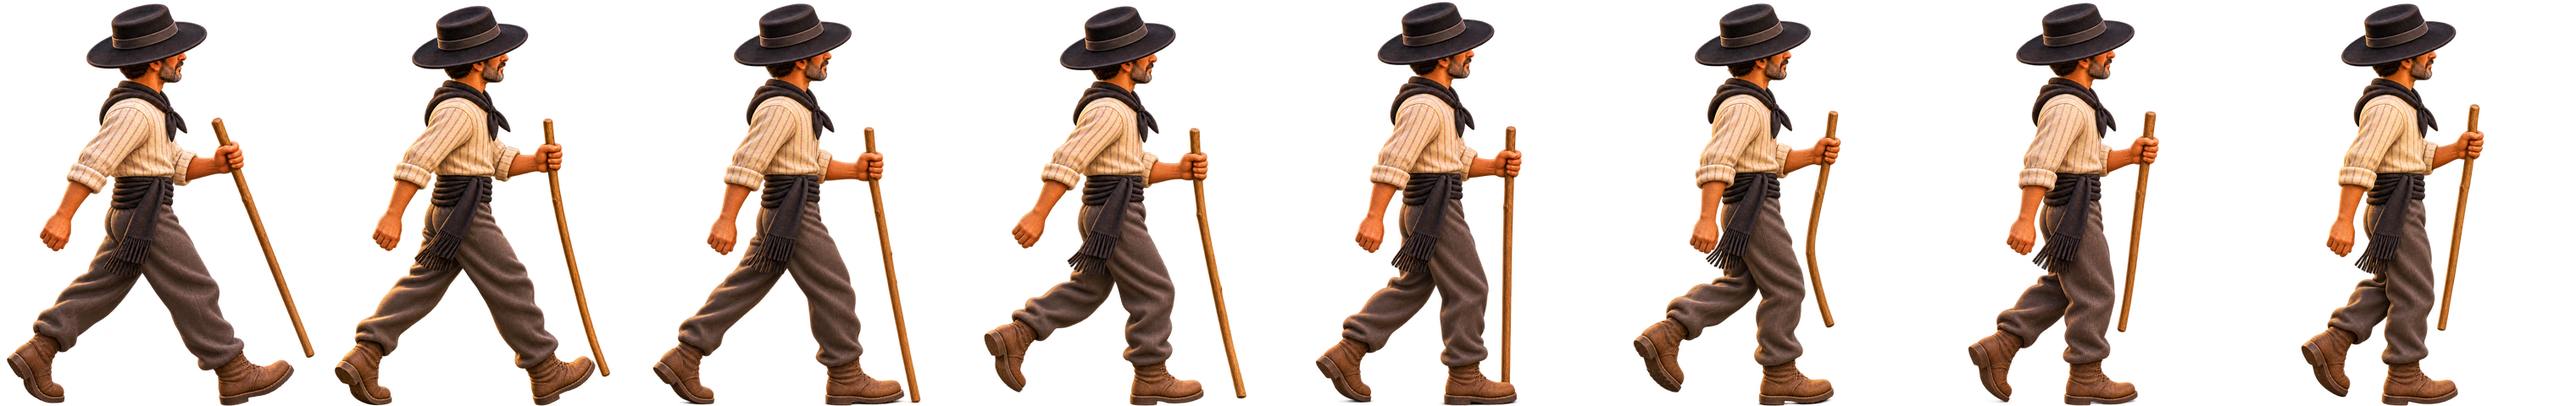
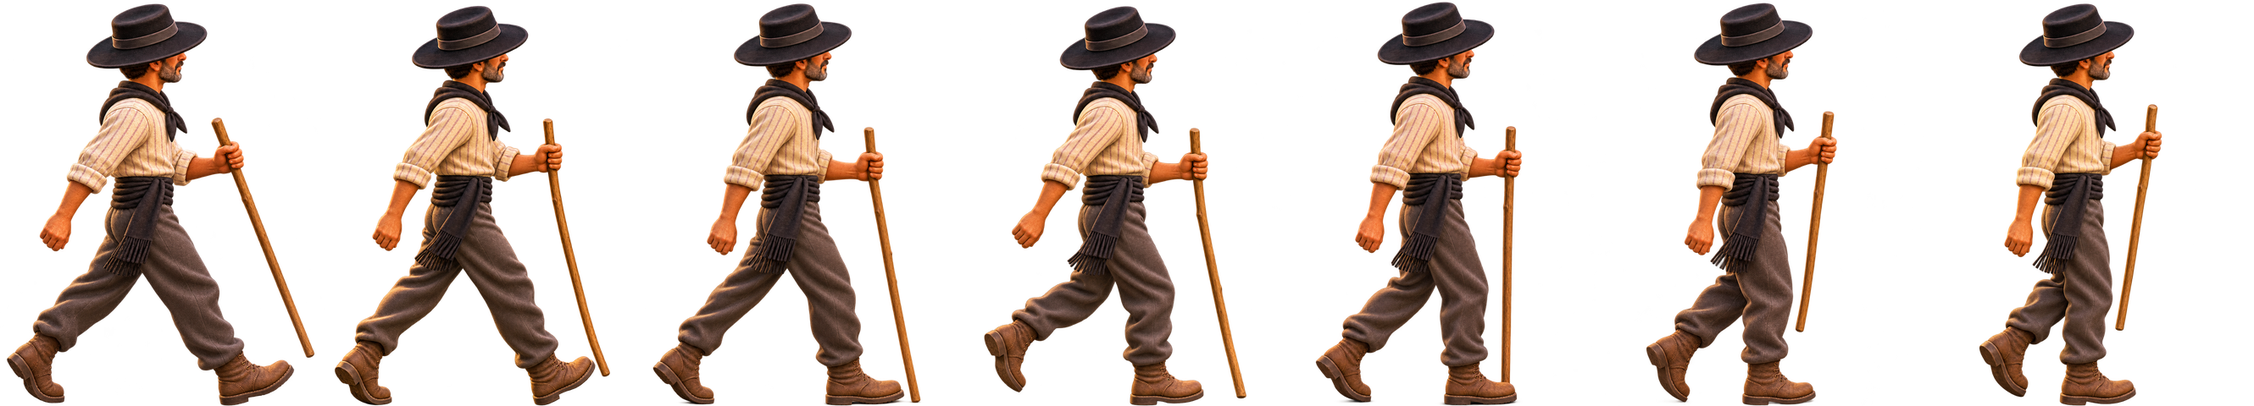
Las calles de Uga, con su iglesia, de fondo en los dos primeros niveles del Mundo 3, y el camellero sin el palo que cambiaba de forma
Claude-Session: https://claude.ai/code/session_01H2Jf8v1MHtV6zTpVoU4WWj

diff --git a/docs/app/sw.js b/docs/app/sw.js
@@ -1,8 +1,8 @@
 // Service worker: deja la versión web disponible sin conexión.
 // En la app Android no hace falta (los archivos ya van dentro del APK) y podría servir
 // una versión antigua tras actualizar, así que allí se da de baja solo.
-const CACHE = 'martin-v3.0.12';
-const ASSETS = ['./', 'index.html', 'martin.js', 'niveles.js', 'secretos.js', 'mundo3.js', 'juego.js', 'dibujo.js', 'lugares.js', 'mapa-lz.js', 'naturaleza.js', 'paisaje-cueva.jpg', 'camello.png', 'guelfo.png', 'mercado-uga.jpg', 'escena-calle-palmera.jpg', 'escena-calle-farolas.jpg', 'guelfo-paso.png', 'camellero-paso.png', 'camellero.png', 'echadero.jpg', 'sendero-malpais.jpg', 'fila-amanecer.jpg', 'portada.jpg', 'paisaje.jpg', 'flora.png', 'suelo-tierra.jpg', 'suelo-lava.jpg', 'paisaje-uga.jpg', 'paisaje-timanfaya.jpg', 'paisaje-geria.jpg', 'paisaje-costa.jpg', 'paisaje-ocaso.jpg', 'paisaje-golfo.jpg', 'paisaje-janubio.jpg', 'paisaje-famara.jpg', 'paisaje-haria.jpg', 'paisaje-mirador.jpg', 'manifest.webmanifest', 'icons/icon-192.png', 'icons/icon-512.png', 'icons/icon-maskable-512.png', 'icons/apple-touch-icon.png', 'i18n-en.js', 'i18n-fr.js', 'i18n-de.js', 'i18n-it.js', 'idioma.js', 'masjuegos.js', 'audio-suave.js', 'turno.js', 'contador.js', 'invitacion.js', 'publicas.js', 'juegos/ajedrez.png', 'juegos/chinchon.png', 'juegos/pumba.png', 'juegos/damas.png', 'juegos/parchis.png', 'juegos/poker.png', 'juegos/uno.png', 'juegos/martin.png'];
+const CACHE = 'martin-v3.0.13';
+const ASSETS = ['./', 'index.html', 'martin.js', 'niveles.js', 'secretos.js', 'mundo3.js', 'juego.js', 'dibujo.js', 'lugares.js', 'mapa-lz.js', 'naturaleza.js', 'paisaje-cueva.jpg', 'camello.png', 'guelfo.png', 'paisaje-uga-iglesia.jpg', 'paisaje-uga-calle.jpg', 'mercado-uga.jpg', 'escena-calle-palmera.jpg', 'escena-calle-farolas.jpg', 'guelfo-paso.png', 'camellero-paso.png', 'camellero.png', 'echadero.jpg', 'sendero-malpais.jpg', 'fila-amanecer.jpg', 'portada.jpg', 'paisaje.jpg', 'flora.png', 'suelo-tierra.jpg', 'suelo-lava.jpg', 'paisaje-uga.jpg', 'paisaje-timanfaya.jpg', 'paisaje-geria.jpg', 'paisaje-costa.jpg', 'paisaje-ocaso.jpg', 'paisaje-golfo.jpg', 'paisaje-janubio.jpg', 'paisaje-famara.jpg', 'paisaje-haria.jpg', 'paisaje-mirador.jpg', 'manifest.webmanifest', 'icons/icon-192.png', 'icons/icon-512.png', 'icons/icon-maskable-512.png', 'icons/apple-touch-icon.png', 'i18n-en.js', 'i18n-fr.js', 'i18n-de.js', 'i18n-it.js', 'idioma.js', 'masjuegos.js', 'audio-suave.js', 'turno.js', 'contador.js', 'invitacion.js', 'publicas.js', 'juegos/ajedrez.png', 'juegos/chinchon.png', 'juegos/pumba.png', 'juegos/damas.png', 'juegos/parchis.png', 'juegos/poker.png', 'juegos/uno.png', 'juegos/martin.png'];
 const NATIVE = self.location.hostname === 'localhost' && self.location.protocol === 'https:';
 
 self.addEventListener('install', e => {

diff --git a/www/sw.js b/www/sw.js
@@ -1,8 +1,8 @@
 // Service worker: deja la versión web disponible sin conexión.
 // En la app Android no hace falta (los archivos ya van dentro del APK) y podría servir
 // una versión antigua tras actualizar, así que allí se da de baja solo.
-const CACHE = 'martin-v3.0.12';
-const ASSETS = ['./', 'index.html', 'martin.js', 'niveles.js', 'secretos.js', 'mundo3.js', 'juego.js', 'dibujo.js', 'lugares.js', 'mapa-lz.js', 'naturaleza.js', 'paisaje-cueva.jpg', 'camello.png', 'guelfo.png', 'mercado-uga.jpg', 'escena-calle-palmera.jpg', 'escena-calle-farolas.jpg', 'guelfo-paso.png', 'camellero-paso.png', 'camellero.png', 'echadero.jpg', 'sendero-malpais.jpg', 'fila-amanecer.jpg', 'portada.jpg', 'paisaje.jpg', 'flora.png', 'suelo-tierra.jpg', 'suelo-lava.jpg', 'paisaje-uga.jpg', 'paisaje-timanfaya.jpg', 'paisaje-geria.jpg', 'paisaje-costa.jpg', 'paisaje-ocaso.jpg', 'paisaje-golfo.jpg', 'paisaje-janubio.jpg', 'paisaje-famara.jpg', 'paisaje-haria.jpg', 'paisaje-mirador.jpg', 'manifest.webmanifest', 'icons/icon-192.png', 'icons/icon-512.png', 'icons/icon-maskable-512.png', 'icons/apple-touch-icon.png', 'i18n-en.js', 'i18n-fr.js', 'i18n-de.js', 'i18n-it.js', 'idioma.js', 'masjuegos.js', 'audio-suave.js', 'turno.js', 'contador.js', 'invitacion.js', 'publicas.js', 'juegos/ajedrez.png', 'juegos/chinchon.png', 'juegos/pumba.png', 'juegos/damas.png', 'juegos/parchis.png', 'juegos/poker.png', 'juegos/uno.png', 'juegos/martin.png'];
+const CACHE = 'martin-v3.0.13';
+const ASSETS = ['./', 'index.html', 'martin.js', 'niveles.js', 'secretos.js', 'mundo3.js', 'juego.js', 'dibujo.js', 'lugares.js', 'mapa-lz.js', 'naturaleza.js', 'paisaje-cueva.jpg', 'camello.png', 'guelfo.png', 'paisaje-uga-iglesia.jpg', 'paisaje-uga-calle.jpg', 'mercado-uga.jpg', 'escena-calle-palmera.jpg', 'escena-calle-farolas.jpg', 'guelfo-paso.png', 'camellero-paso.png', 'camellero.png', 'echadero.jpg', 'sendero-malpais.jpg', 'fila-amanecer.jpg', 'portada.jpg', 'paisaje.jpg', 'flora.png', 'suelo-tierra.jpg', 'suelo-lava.jpg', 'paisaje-uga.jpg', 'paisaje-timanfaya.jpg', 'paisaje-geria.jpg', 'paisaje-costa.jpg', 'paisaje-ocaso.jpg', 'paisaje-golfo.jpg', 'paisaje-janubio.jpg', 'paisaje-famara.jpg', 'paisaje-haria.jpg', 'paisaje-mirador.jpg', 'manifest.webmanifest', 'icons/icon-192.png', 'icons/icon-512.png', 'icons/icon-maskable-512.png', 'icons/apple-touch-icon.png', 'i18n-en.js', 'i18n-fr.js', 'i18n-de.js', 'i18n-it.js', 'idioma.js', 'masjuegos.js', 'audio-suave.js', 'turno.js', 'contador.js', 'invitacion.js', 'publicas.js', 'juegos/ajedrez.png', 'juegos/chinchon.png', 'juegos/pumba.png', 'juegos/damas.png', 'juegos/parchis.png', 'juegos/poker.png', 'juegos/uno.png', 'juegos/martin.png'];
 const NATIVE = self.location.hostname === 'localhost' && self.location.protocol === 'https:';
 
 self.addEventListener('install', e => {

diff --git a/docs/app/dibujo.js b/docs/app/dibujo.js
@@ -297,8 +297,8 @@
   }
   // el paso del guelfo: 12 dibujos (guelfo-paso.png, 278×286 cada uno; el 1 es de pie y del 2 al 12 un paso completo)
   const GW0 = { img: null, ok: false, n: 12, fw: 278, fh: 286, ax: 143, ay: 284, alto: 2.75, pie: 1, cache: {} };
-  // el paso del camellero: 8 dibujos (camellero-paso.png, 380×480 cada uno), de la zancada más larga a la más corta: cada vuelta es un paso
-  const CW = { img: null, ok: false, n: 8, fw: 380, fh: 480, ax: 182, ay: 479, alto: 2.35, pie: 0, cache: {} };
+  // el paso del camellero: 7 dibujos (camellero-paso.png, 380×480 cada uno), de la zancada más larga a la más corta: cada vuelta es un paso
+  const CW = { img: null, ok: false, n: 7, fw: 380, fh: 480, ax: 182, ay: 479, alto: 2.35, pie: 0, cache: {} };
   if (typeof Image !== 'undefined') for (const [o, src] of [[GW0, 'guelfo-paso.png'], [CW, 'camellero-paso.png']]) { o.img = new Image(); o.img.onload = () => { o.ok = true; }; o.img.src = src; }
   function pasoEscalado(hp, GW) {
     const k = Math.max(16, Math.round(hp)); if (GW.cache[k]) return GW.cache[k];
@@ -582,8 +582,11 @@
     { src: 'paisaje-janubio.jpg', cielo: ['#007cf0', '#0089fe'] },
     { src: 'paisaje-famara.jpg', mar: [0.55, 1], cielo: ['#0070e8', '#007ffb'] },
     { src: 'paisaje-haria.jpg', ini: 0.2, cielo: ['#0070e8', '#0080fd'] },
-    { src: 'paisaje-mirador.jpg', mar: [0.27, 1], cielo: ['#006ae8', '#0078fb'] }],
-    porTema: [0, 1, 2, 3, 4, 5, 6, 7, 8, 9, 10, -1, 8, 0, 0, 0, 0, 2, 5, 2, 6] };   // Mundo 3: Uga, Timanfaya (calor y Echadero), atardecer (eclipse) y El Golfo (arena negra)   // 11: cueva (fondo dibujado); 12: La Graciosa (vista del risco de Famara)
+    { src: 'paisaje-mirador.jpg', mar: [0.27, 1], cielo: ['#006ae8', '#0078fb'] },
+    // Mundo 3: las calles de Uga (panorámicas)
+    { src: 'paisaje-uga-iglesia.jpg', cielo: ['#1f6fd8', '#3d8fe6'] },
+    { src: 'paisaje-uga-calle.jpg', cielo: ['#1f6fd8', '#3d8fe6'] }],
+    porTema: [0, 1, 2, 3, 4, 5, 6, 7, 8, 9, 10, -1, 8, 11, 12, 0, 0, 2, 5, 2, 6] };   // Mundo 3: Uga, Timanfaya (calor y Echadero), atardecer (eclipse) y El Golfo (arena negra)   // 11: cueva (fondo dibujado); 12: La Graciosa (vista del risco de Famara)
   function fotoTema(tema) {
     if (PAI.porTema[tema] === -1) return null;
     const f = PAI.fotos[PAI.porTema[tema] || 0];

diff --git a/www/dibujo.js b/www/dibujo.js
@@ -297,8 +297,8 @@
   }
   // el paso del guelfo: 12 dibujos (guelfo-paso.png, 278×286 cada uno; el 1 es de pie y del 2 al 12 un paso completo)
   const GW0 = { img: null, ok: false, n: 12, fw: 278, fh: 286, ax: 143, ay: 284, alto: 2.75, pie: 1, cache: {} };
-  // el paso del camellero: 8 dibujos (camellero-paso.png, 380×480 cada uno), de la zancada más larga a la más corta: cada vuelta es un paso
-  const CW = { img: null, ok: false, n: 8, fw: 380, fh: 480, ax: 182, ay: 479, alto: 2.35, pie: 0, cache: {} };
+  // el paso del camellero: 7 dibujos (camellero-paso.png, 380×480 cada uno), de la zancada más larga a la más corta: cada vuelta es un paso
+  const CW = { img: null, ok: false, n: 7, fw: 380, fh: 480, ax: 182, ay: 479, alto: 2.35, pie: 0, cache: {} };
   if (typeof Image !== 'undefined') for (const [o, src] of [[GW0, 'guelfo-paso.png'], [CW, 'camellero-paso.png']]) { o.img = new Image(); o.img.onload = () => { o.ok = true; }; o.img.src = src; }
   function pasoEscalado(hp, GW) {
     const k = Math.max(16, Math.round(hp)); if (GW.cache[k]) return GW.cache[k];
@@ -582,8 +582,11 @@
     { src: 'paisaje-janubio.jpg', cielo: ['#007cf0', '#0089fe'] },
     { src: 'paisaje-famara.jpg', mar: [0.55, 1], cielo: ['#0070e8', '#007ffb'] },
     { src: 'paisaje-haria.jpg', ini: 0.2, cielo: ['#0070e8', '#0080fd'] },
-    { src: 'paisaje-mirador.jpg', mar: [0.27, 1], cielo: ['#006ae8', '#0078fb'] }],
-    porTema: [0, 1, 2, 3, 4, 5, 6, 7, 8, 9, 10, -1, 8, 0, 0, 0, 0, 2, 5, 2, 6] };   // Mundo 3: Uga, Timanfaya (calor y Echadero), atardecer (eclipse) y El Golfo (arena negra)   // 11: cueva (fondo dibujado); 12: La Graciosa (vista del risco de Famara)
+    { src: 'paisaje-mirador.jpg', mar: [0.27, 1], cielo: ['#006ae8', '#0078fb'] },
+    // Mundo 3: las calles de Uga (panorámicas)
+    { src: 'paisaje-uga-iglesia.jpg', cielo: ['#1f6fd8', '#3d8fe6'] },
+    { src: 'paisaje-uga-calle.jpg', cielo: ['#1f6fd8', '#3d8fe6'] }],
+    porTema: [0, 1, 2, 3, 4, 5, 6, 7, 8, 9, 10, -1, 8, 11, 12, 0, 0, 2, 5, 2, 6] };   // Mundo 3: Uga, Timanfaya (calor y Echadero), atardecer (eclipse) y El Golfo (arena negra)   // 11: cueva (fondo dibujado); 12: La Graciosa (vista del risco de Famara)
   function fotoTema(tema) {
     if (PAI.porTema[tema] === -1) return null;
     const f = PAI.fotos[PAI.porTema[tema] || 0];

diff --git a/docs/app/index.html b/docs/app/index.html
@@ -457,7 +457,7 @@ window.NOTICIAS_MARTIN = ['https://www.laprovincia.es/videos/lanzarote/2026/08/1
   'https://www.eldiario.es/canariasahora/sociedad/eclipse-deja-imagenes-historia-martin-cria-camello-lanzarote_1_13444558.amp.html',
   'https://www.tiktok.com/@unahoramenostv/video/7605692657339256097'];   // el Martín real (prensa, agosto de 2026)
 window.NOTICIA_MARTIN = NOTICIAS_MARTIN[0];
-const APP_VERSION = '3.0.12';
+const APP_VERSION = '3.0.13';
 const REPO = 'csuarezsm/Martin';
 const MAX_ARCHIVE = 500;
 const uid = () => Math.random().toString(36).slice(2, 10);

diff --git a/www/index.html b/www/index.html
@@ -457,7 +457,7 @@ window.NOTICIAS_MARTIN = ['https://www.laprovincia.es/videos/lanzarote/2026/08/1
   'https://www.eldiario.es/canariasahora/sociedad/eclipse-deja-imagenes-historia-martin-cria-camello-lanzarote_1_13444558.amp.html',
   'https://www.tiktok.com/@unahoramenostv/video/7605692657339256097'];   // el Martín real (prensa, agosto de 2026)
 window.NOTICIA_MARTIN = NOTICIAS_MARTIN[0];
-const APP_VERSION = '3.0.12';
+const APP_VERSION = '3.0.13';
 const REPO = 'csuarezsm/Martin';
 const MAX_ARCHIVE = 500;
 const uid = () => Math.random().toString(36).slice(2, 10);

diff --git a/README.md b/README.md
@@ -2,7 +2,7 @@
 
 Martín, un guelfo (cría de camello canario) de Uga inspirado en uno real, lleva el agua por los caminos que dejó la tormenta: lava, rocas, huecos y bajadas. **11 niveles de plataformas en dos mundos** con tres estrellas cada uno, a veces con dos caminos (uno rápido y arriesgado, otro lento y seguro), y un **reto diario** igual para todos con ranking.
 Para Android e iPhone. Gratis, sin anuncios y sin cuentas. App Capacitor + web (`www/`). Todo se guarda en el móvil; solo el reto diario usa el servidor de juegos (nombre y pulsaciones, para comprobar el tiempo).
-Paquete: `com.itcanarias.martin` · versión 3.0.12
+Paquete: `com.itcanarias.martin` · versión 3.0.13
 
 Novedades de la 3.0: **Mundo 3 · El guelfo de Uga**, una precuela con 6 niveles, un nivel secreto (El Echadero) y un nivel de premio (Arena negra): Martín todavía es un guelfo, más pequeño y con menos salto, que crece de nivel en nivel; sigue al camellero y a la manada, busca la sombra en el calor de julio y vive el eclipse del 12 de agosto. Ocho escenas cuentan su historia, hay biberones escondidos, sonido de fondo de pueblo y manada, y cuatro fichas nuevas en el Cuaderno de viaje con datos del Ayuntamiento de Yaiza, el Ministerio de Agricultura y la RAE.
 
